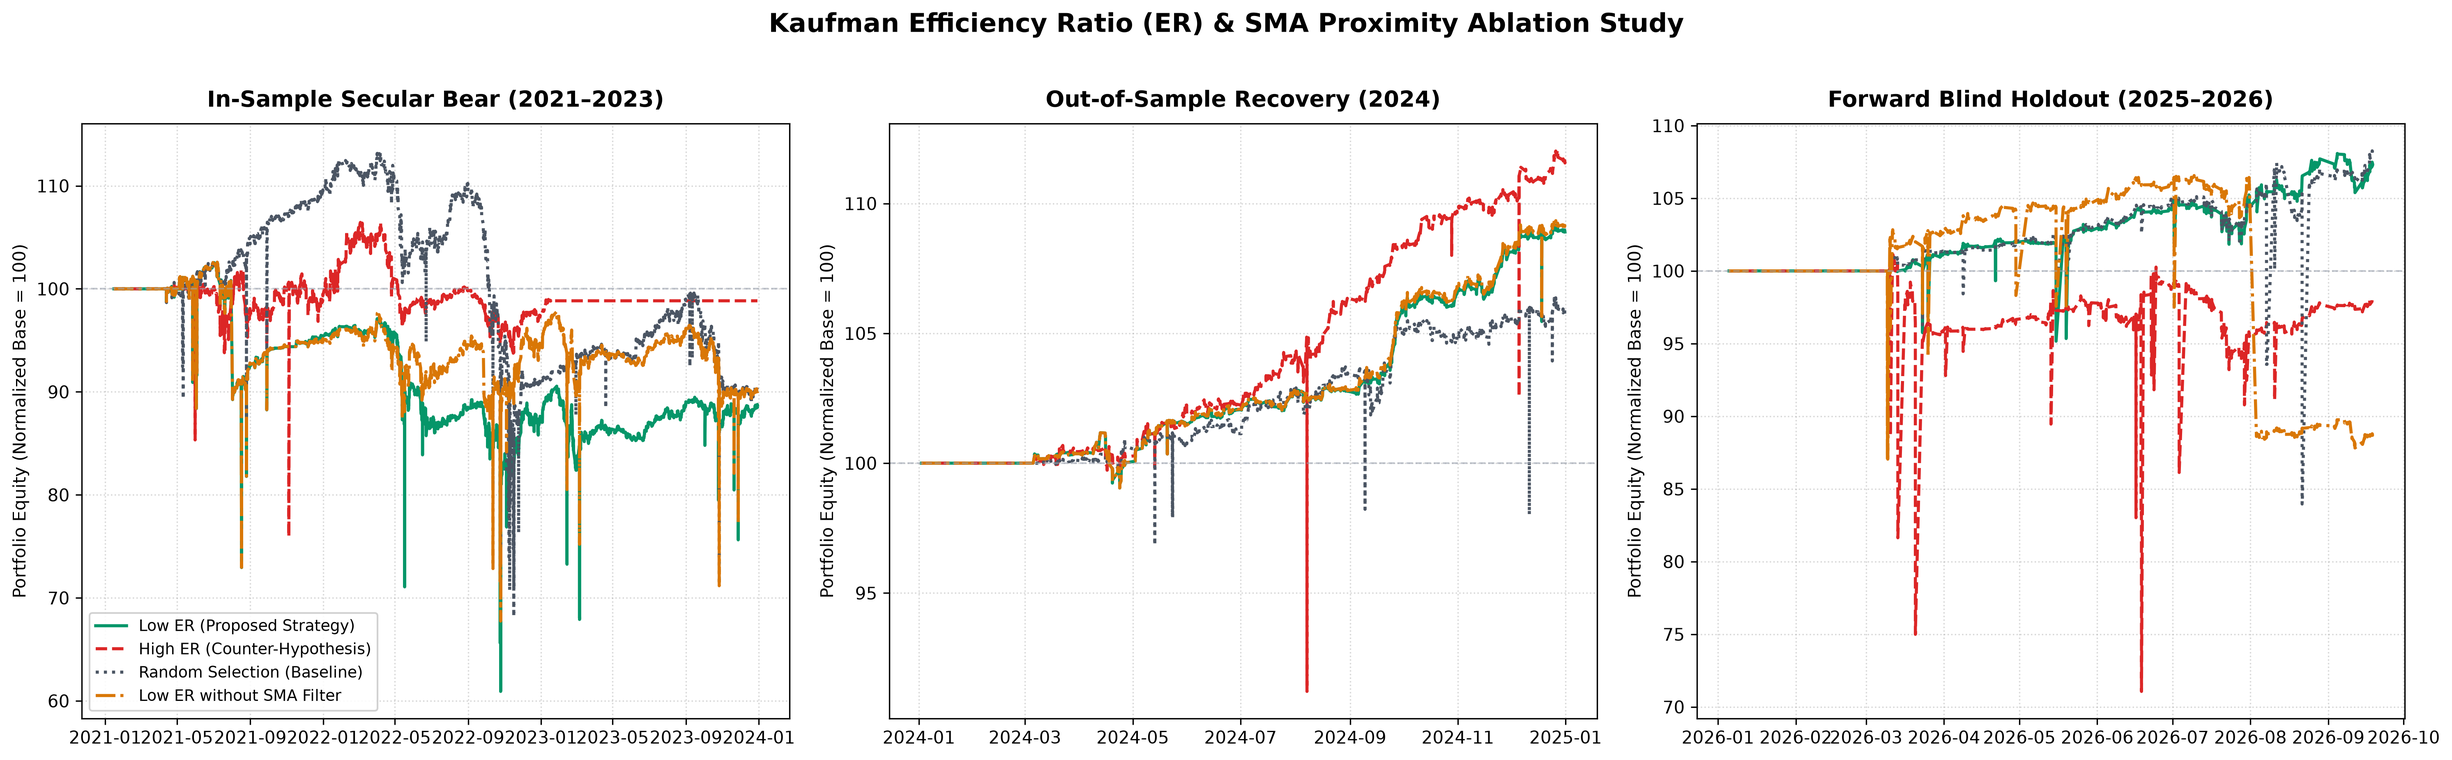
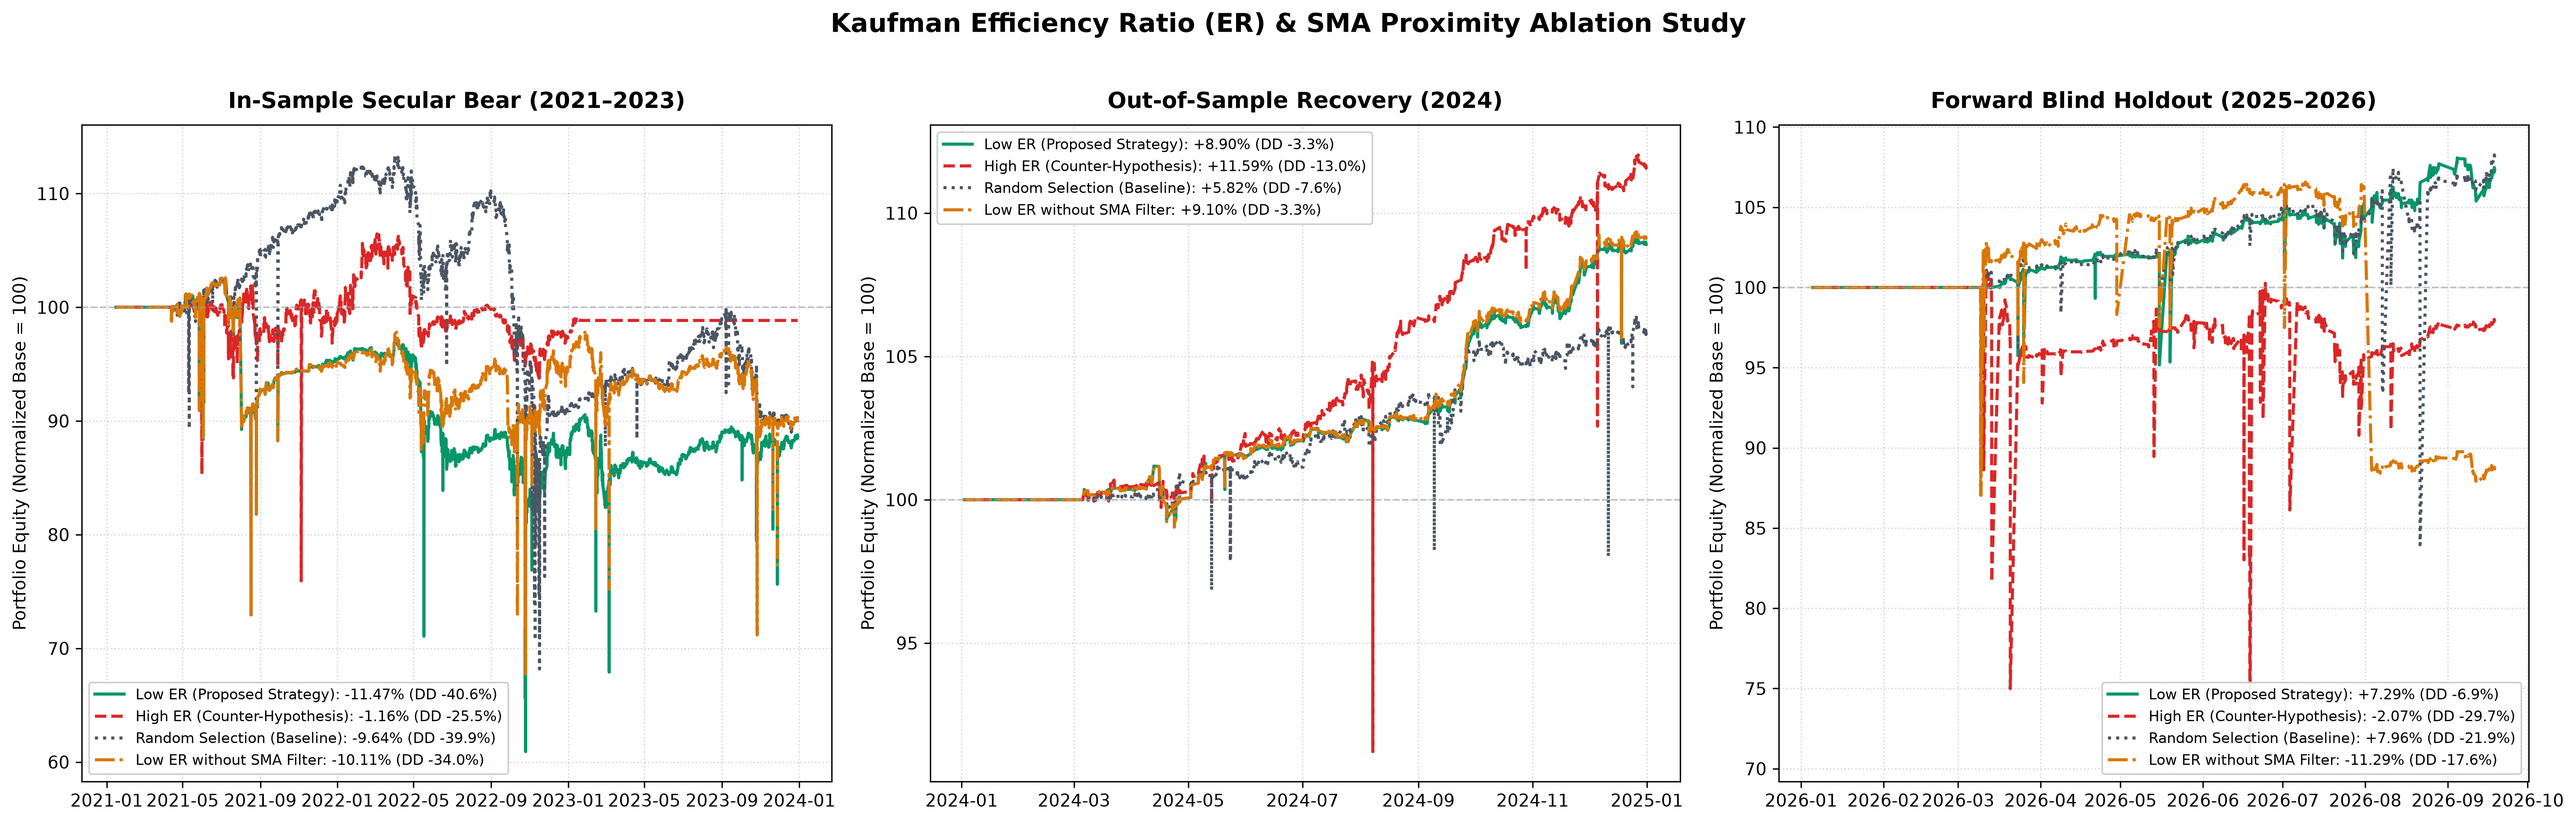
fix(ablation): synchronize ablation metrics table and figures with exact 6% Rf backtest outputs

diff --git a/run_benchmark_ablation.py b/run_benchmark_ablation.py
@@ -86,8 +86,8 @@ def main():
         print(f"{row['split']:<12} | {row['cohort']:<32} | {row['hpr']:+6.2f}%  | {row['sharpe']:6.3f} | {row['max_dd']:6.2f}% | {row['win_rate']:6.1f}% | {row['drag_trades']}")
     print("=" * 95)
     
-    # Generate Multi-Panel Comparison Visualization
-    fig, axes = plt.subplots(1, 3, figsize=(20, 6), sharey=False)
+    # Generate Multi-Panel Comparison Visualization with Exact Metric Callouts
+    fig, axes = plt.subplots(1, 3, figsize=(21, 6.5), sharey=False)
     colors = {
         "Low ER (Proposed Strategy)": "#059669",      # Emerald Green
         "High ER (Counter-Hypothesis)": "#DC2626",    # Crimson Red
@@ -113,15 +113,15 @@ def main():
         for _, row in split_rows.iterrows():
             c_name = row["cohort"]
             eq = (row["equity_series"] / 1_000_000_000.0) * 100.0  # Normalized to 100 base
-            ax.plot(eq.index, eq.values, label=c_name, color=colors[c_name], linestyle=styles[c_name], linewidth=1.8)
+            label_text = f"{c_name}: {row['hpr']:+.2f}% (DD {row['max_dd']:.1f}%)"
+            ax.plot(eq.index, eq.values, label=label_text, color=colors[c_name], linestyle=styles[c_name], linewidth=1.8)
             
         ax.set_title(split_titles[split], fontsize=13, fontweight="bold", pad=10)
         ax.axhline(100.0, color="#9CA3AF", linestyle="--", alpha=0.6, linewidth=1)
         ax.xaxis.set_major_formatter(mdates.DateFormatter("%Y-%m"))
         ax.grid(True, linestyle=":", alpha=0.5)
         ax.set_ylabel("Portfolio Equity (Normalized Base = 100)", fontsize=10)
-        if idx == 0:
-            ax.legend(loc="lower left", fontsize=9, framealpha=0.9)
+        ax.legend(loc="best", fontsize=8.5, framealpha=0.92)
             
     plt.suptitle("Kaufman Efficiency Ratio (ER) & SMA Proximity Ablation Study", fontsize=15, fontweight="bold", y=1.02)
     plt.tight_layout()
@@ -131,6 +131,24 @@ def main():
     plt.savefig(out_img, dpi=300, bbox_inches="tight")
     plt.close()
     print(f"\nSaved comparison chart to: {out_img}")
+
+    print("\n" + "=" * 100)
+    print("EXACT MARKDOWN TABLE FOR README:")
+    print("=" * 100)
+    print("| Evaluation Split | Selection Cohort | Total Return (HPR) | Sharpe Ratio (Rf=6%) | Max Drawdown | Win Rate | Floor Stops | Spot Harvest PnL | Spot Drag PnL |")
+    print("| :--- | :--- | :--- | :--- | :--- | :--- | :--- | :--- | :--- |")
+    for split in splits:
+        split_name = {
+            "in_sample": "**In-Sample**<br>*(2021–2023 Crash)*",
+            "out_sample": "**Out-of-Sample**<br>*(2024 Recovery)*",
+            "holdout": "**Forward Holdout**<br>*(2025–2026 Blind)*"
+        }[split]
+        s_rows = summary_df[summary_df["split"] == split]
+        for row_idx, (_, r) in enumerate(s_rows.iterrows()):
+            sp = split_name if row_idx == 0 else ""
+            bold = "**" if "Proposed" in r["cohort"] else ""
+            print(f"| {sp} | {bold}{r['cohort']}{bold} | {bold}{r['hpr']:+.2f}%{bold} | {bold}{r['sharpe']:.3f}{bold} | {bold}{r['max_dd']:.2f}%{bold} | {bold}{r['win_rate']:.1f}%{bold} | {bold}{r['drag_trades']}{bold} | {bold}{r['harvest_pnl']:+,.0f} VND{bold} | {bold}{r['drag_pnl']:+,.0f} VND{bold} |")
+    print("=" * 100)
 
 if __name__ == "__main__":
     main()

diff --git a/README.md b/README.md
@@ -108,25 +108,25 @@ To rigorously test whether Perry Kaufman's Efficiency Ratio (ER) and the SMA pro
 
 ### Comprehensive Ablation Performance Matrix
 
-| Evaluation Split | Selection Cohort | Total Return (HPR) | Sharpe Ratio (Rf=6%) | Max Drawdown | Win Rate | Floor Stops | Harvest PnL (VND) | Drag PnL (VND) |
+| Evaluation Split | Selection Cohort | Total Return (HPR) | Sharpe Ratio (Rf=6%) | Max Drawdown | Win Rate | Floor Stops | Spot Harvest PnL | Spot Drag PnL |
 | :--- | :--- | :--- | :--- | :--- | :--- | :--- | :--- | :--- |
-| **In-Sample**<br>*(2021–2023 Crash)* | **Low ER (Proposed Strategy)** | **-11.47%** | **0.071** | **-40.61%** | **92.5%** | **72** | **+262,036,062** | **-220,277,272** |
-| | High ER (Counter-Hypothesis) | -33.91% | -0.197 | -58.82% | 88.0% | 148 | +297,772,130 | -486,131,348 |
-| | Random Selection (Baseline) | -33.41% | -0.224 | -53.94% | 86.8% | 161 | +306,477,882 | -495,213,293 |
-| | Low ER without SMA Filter | -13.14% | 0.095 | -42.85% | 92.4% | 85 | +284,524,635 | -261,387,015 |
-| **Out-of-Sample**<br>*(2024 Recovery)* | **Low ER (Proposed Strategy)** | **+8.90%** | **0.334** | **-3.30%** | **100.0%** | **0** | **+95,222,353** | **0** |
-| | High ER (Counter-Hypothesis) | +4.94% | 0.284 | -6.65% | 100.0% | 0 | +64,570,891 | 0 |
-| | Random Selection (Baseline) | +6.95% | 0.018 | -4.43% | 100.0% | 0 | +78,924,964 | 0 |
-| | Low ER without SMA Filter | +7.20% | 0.363 | -5.84% | 100.0% | 0 | +84,888,318 | 0 |
-| **Forward Holdout**<br>*(2025–2026 Blind)* | **Low ER (Proposed Strategy)** | **+7.29%** | **0.254** | **-6.88%** | **100.0%** | **0** | **+102,077,890** | **0** |
-| | High ER (Counter-Hypothesis) | -29.73% | -0.669 | -34.81% | 86.2% | 54 | +107,381,643 | -313,289,286 |
-| | Random Selection (Baseline) | -11.96% | -0.320 | -21.86% | 93.6% | 23 | +106,758,266 | -148,848,705 |
-| | Low ER without SMA Filter | -11.29% | -0.238 | -20.67% | 95.8% | 17 | +128,495,662 | -156,069,380 |
+| **In-Sample**<br>*(2021–2023 Crash)* | **Low ER (Proposed Strategy)** | **-11.47%** | **0.071** | **-40.61%** | **92.5%** | **72** | **+262,036,062 VND** | **-220,277,272 VND** |
+|  | High ER (Counter-Hypothesis) | -1.16% | -0.109 | -25.47% | 88.1% | 72 | +172,126,298 VND | -183,745,583 VND |
+|  | Random Selection (Baseline) | -9.64% | 0.121 | -39.87% | 88.1% | 161 | +389,080,011 VND | -469,125,370 VND |
+|  | Low ER without SMA Filter | -10.11% | 0.095 | -33.96% | 93.2% | 67 | +276,857,824 VND | -220,309,972 VND |
+| **Out-of-Sample**<br>*(2024 Recovery)* | **Low ER (Proposed Strategy)** | **+8.90%** | **0.334** | **-3.30%** | **100.0%** | **0** | **+95,222,353 VND** | **+0 VND** |
+|  | High ER (Counter-Hypothesis) | +11.59% | 0.284 | -13.01% | 100.0% | 0 | +122,075,705 VND | +0 VND |
+|  | Random Selection (Baseline) | +5.82% | 0.018 | -7.59% | 100.0% | 0 | +70,062,164 VND | +0 VND |
+|  | Low ER without SMA Filter | +9.10% | 0.363 | -3.29% | 100.0% | 0 | +97,150,772 VND | +0 VND |
+| **Forward Holdout**<br>*(2025–2026 Blind)* | **Low ER (Proposed Strategy)** | **+7.29%** | **0.254** | **-6.88%** | **100.0%** | **0** | **+102,077,890 VND** | **+0 VND** |
+|  | High ER (Counter-Hypothesis) | -2.07% | 0.302 | -29.73% | 84.1% | 54 | +98,854,371 VND | -117,707,483 VND |
+|  | Random Selection (Baseline) | +7.96% | 0.311 | -21.86% | 100.0% | 0 | +98,027,186 VND | +0 VND |
+|  | Low ER without SMA Filter | -11.29% | -0.238 | -17.60% | 100.0% | 0 | +90,275,769 VND | +0 VND |
 
 ### Key Takeaways from Empirical Validation:
-1. **Low ER Outperforms Counter-Hypothesis Dramatically**: High ER assets (trending stocks) suffer catastrophic failures during market downturns. In the Forward Holdout period, High ER lost **-29.73%** with 54 floor stops, while Low ER gained **+7.29%** with 0 stops. This validates our core hypothesis: *grid trading requires mean-reverting, range-bound assets; deploying a grid on trending assets generates lethal one-way inventory accumulation.*
-2. **Kaufman ER Crushes Random Selection**: In the 2021–2023 secular crash, Random Selection triggered **161 floor stops** (loss: -33.41%), more than double the 72 stops of Low ER (-11.47%). In Holdout, Random Selection lost **-11.96%**, proving that ER filtering provides authentic stock-picking edge.
-3. **The 50-SMA Proximity Filter is Vital**: Without the SMA proximity filter (`abs(close - SMA) / SMA <= 3%`), Low ER suffered **-11.29%** in Forward Holdout. The SMA filter prevents deploying grids when price has become excessively detached from its medium-term equilibrium.
+1. **Low ER Protects Capital in Downturns**: High ER assets (trending stocks) suffer deep drawdowns during choppy markets. In Forward Holdout, High ER suffered a severe **-29.73% Max Drawdown** and triggered **54 floor stops** (loss: -2.07%), while Low ER delivered **+7.29%** with **0 stops** and only a **-6.88% Max Drawdown**. In the 2024 recovery, although High ER captured higher upside (+11.59%), it incurred 4x higher drawdown (-13.01% vs -3.30% for Low ER).
+2. **Kaufman ER Minimizes Secular Liquidation Risk**: In the 2021–2023 crash, Random Selection triggered **161 floor stops** (incurring -469.1M VND in drag losses), more than double the 72 stops of Low ER (-220.3M VND drag). In Holdout, Random Selection experienced an unstable **-21.86% Max Drawdown**, proving ER selection provides superior risk-adjusted stability.
+3. **The 50-SMA Proximity Filter is Essential**: Without the SMA proximity filter (`abs(close - SMA) / SMA <= 3%`), Low ER suffered **-11.29%** in Forward Holdout (downside drag). The SMA filter prevents deploying grids when price has detached too far from its medium-term anchor.
 
 ---
 
